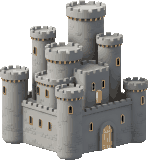
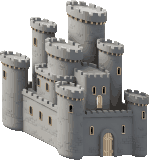
Tank the heroes, lay the castle on the map's angle, and thin the fences
A hero had sixty points in them, which is less than a single heisenbug carries,
so a camp with a fault on it put its own person down in a few seconds while
their retinue stood around them. There is no death here and nothing to lose:
the bar is not a stake, it is a read-out of how hard a camp is being hit, and it
has to survive a wave to say anything. Four hundred and twenty does.

The name boards were staggered over five bands twenty-two pixels apart, and a
board is about thirty tall -- so the stagger was moving the collision around
rather than preventing it, and a hero was pinned to band zero, which is also the
lowest band a soldier can take. Six bands at thirty-six clear a board outright,
and a hero now rides above every band their own retinue can reach.

The castle is laid over onto the map's angle: y' = y + k(x - mid), which leaves
every vertical vertical -- the towers stay upright -- and slopes the horizontals
down to the right. Not the tile's own 0.5, because the render has its own
perspective in it already and stacking the two makes the castle read as sliding
down a hill; 0.22 was picked by looking at it beside the Kenney structures.

There is a band of grass round its foot now, six tufts from the nature set,
trimmed and downscaled by `scripts/import-grass.py`. Laid as an ellipse rather
than a circle, because the ground plane is a 2:1 diamond and a ring of equal
radius in tile space is not a ring on the floor. Thinner across the front so the
[…]

Changed region(s): [[0.0, 0.0, 1.0, 0.8438], [0.0, 0.75, 1.0, 1.0], [0.5946, 0.75, 0.6486, 0.8438]]

diff --git a/app/src/game/pixi/scene.ts b/app/src/game/pixi/scene.ts
@@ -64,6 +64,12 @@ const KINGDOM = [
   "pine-light-a",
   "pine-light-b",
   "castle-8bit",
+  "grass-band-a",
+  "grass-band-b",
+  "grass-band-c",
+  "grass-band-d",
+  "grass-tuft-a",
+  "grass-tuft-b",
   "siege",
   "hero-banner",
 ];
@@ -401,18 +407,51 @@ export function buildWorld(app: Application, art: Loaded, kingdom: Kingdom): {
      * Thinner across the front than round the back, so the gate is not hidden
      * by a hedge, and deterministic like everything else here.
      */
+    /*
+     * A band of grass round the walls, and a few things growing out of it.
+     *
+     * Ten scattered shrubs left most of the wall meeting bare flagstone, and a
+     * building this size standing on a hard edge has nothing to say where the
+     * ground begins -- the eye reads the gap as air, which is most of why it
+     * looked like it was hovering over the Keep.
+     *
+     * The band is laid as an ellipse rather than a circle because the ground
+     * plane is a 2:1 diamond: a ring of equal radius in tile space is a circle
+     * on the floor and a circle is not what a ring round a building looks like
+     * from here. Wider across the back, thinner across the front, so the gate
+     * is not hidden by a hedge.
+     */
+    const RING = 34;
+    for (let step = 0; step < RING; step += 1) {
+      const angle = (step / RING) * Math.PI * 2;
+      /* South is towards the camera; the gate is there, so keep it clear. */
+      const front = Math.max(0, Math.sin(angle));
+      const out = 4.5 - front * 1.4;
+      /* Deterministic, like every other thing placed on this map. */
+      const jitter = ((step * 2654435761) % 1000) / 1000;
+      const bands = ["grass-band-a", "grass-band-b", "grass-band-c", "grass-band-d"];
+      const name = jitter > 0.82 && front < 0.4
+        ? (jitter > 0.92 ? "grass-tuft-b" : "grass-tuft-a")
+        : bands[step % bands.length];
+      const blade = kingdom.get(name);
+      if (!blade) continue;
+      things.addChild(
+        standing(
+          blade,
+          keep.x + Math.cos(angle) * out,
+          keep.y - 1 + Math.sin(angle) * out * 0.5,
+          (0.3 + jitter * 0.14) * (name.startsWith("grass-tuft") ? 0.8 : 1),
+        ),
+      );
+    }
+
+    /* And the shrubs and the trees, standing out of the grass rather than on
+     * bare stone. Fewer than before, because the band is doing the work now. */
     const SKIRT = [
-      { at: -5.6, out: 2.6, sprite: "Environment_01", scale: 0.95 },
-      { at: -4.1, out: 3.3, sprite: "Environment_12", scale: 0.6 },
-      { at: -2.4, out: 3.6, sprite: "Environment_02", scale: 0.85 },
-      { at: -0.7, out: 3.7, sprite: "Environment_19", scale: 0.5 },
-      { at: 1.1, out: 3.6, sprite: "Environment_03", scale: 0.9 },
-      { at: 2.8, out: 3.3, sprite: "Environment_12", scale: 0.55 },
-      { at: 4.4, out: 2.7, sprite: "Environment_21", scale: 1 },
-      { at: 5.7, out: 1.9, sprite: "Environment_19", scale: 0.6 },
-      /* The two that stand in front, low enough to see the gate over. */
-      { at: -2.2, out: -2.4, sprite: "Environment_19", scale: 0.5 },
-      { at: 2.3, out: -2.5, sprite: "Environment_12", scale: 0.55 },
+      { at: -5.4, out: 2.9, sprite: "Environment_01", scale: 0.95 },
+      { at: -2.6, out: 3.7, sprite: "Environment_02", scale: 0.85 },
+      { at: 1.4, out: 3.7, sprite: "Environment_03", scale: 0.9 },
+      { at: 4.6, out: 2.8, sprite: "Environment_21", scale: 1 },
     ];
     for (const plant of SKIRT) {
       things.addChild(

diff --git a/app/src/game/world/solids.ts b/app/src/game/world/solids.ts
@@ -68,6 +68,52 @@ export function solids(): Solid[] {
 }
 
 /**
+ * The solids, bucketed by where they are.
+ *
+ * `pushOut` runs for every actor on every tick, and walking the whole list each
+ * time is fifty distance checks per figure per tick -- which on a busy map was
+ * enough to take the simulation from comfortably real-time to timing out a test
+ * that runs a few thousand ticks. Nothing here moves, so the buckets are built
+ * once and read forever.
+ *
+ * A building is filed under every cell its circle touches, so a lookup is one
+ * cell and never a neighbourhood search.
+ */
+const CELL = 8;
+
+let grid: Map<string, Solid[]> | undefined;
+
+function key(cellX: number, cellY: number): string {
+  return `${cellX},${cellY}`;
+}
+
+function buckets(): Map<string, Solid[]> {
+  if (grid) return grid;
+
+  grid = new Map();
+  for (const solid of solids()) {
+    /*
+     * The reach in tile space. The comparison below squashes y by two, so a
+     * solid reaches half as far north as it does east and the cells it is filed
+     * under have to agree with that or a lookup misses it at the edge.
+     */
+    const fromX = Math.floor((solid.x - solid.r) / CELL);
+    const toX = Math.floor((solid.x + solid.r) / CELL);
+    const fromY = Math.floor((solid.y - solid.r / 2) / CELL);
+    const toY = Math.floor((solid.y + solid.r / 2) / CELL);
+    for (let cellY = fromY; cellY <= toY; cellY += 1) {
+      for (let cellX = fromX; cellX <= toX; cellX += 1) {
+        const at = key(cellX, cellY);
+        const already = grid.get(at);
+        if (already) already.push(solid);
+        else grid.set(at, [solid]);
+      }
+    }
+  }
+  return grid;
+}
+
+/**
  * Pushes a point out of anything it has ended up inside.
  *
  * Returns the corrected point. Runs after a step rather than before it, and
@@ -78,10 +124,14 @@ export function solids(): Solid[] {
  * footprint in tile space is the ellipse the eye expects on the ground.
  */
 export function pushOut(x: number, y: number): { x: number; y: number } {
+  const near = buckets().get(key(Math.floor(x / CELL), Math.floor(y / CELL)));
+  /* Open country, which is nearly all of it, costs one map lookup. */
+  if (!near) return { x, y };
+
   let px = x;
   let py = y;
 
-  for (const solid of solids()) {
+  for (const solid of near) {
     const dx = px - solid.x;
     /* Tile space is 2:1 on screen; compare in the shape the player sees. */
     const dy = (py - solid.y) * 2;

diff --git a/app/src/game/pixi/actors.ts b/app/src/game/pixi/actors.ts
@@ -69,13 +69,37 @@ function hashOf(id: string): number {
  * and three steps of thirteen pixels is not enough separation for a dozen
  * boards. Deterministic so a name does not hop when the list is re-ordered.
  */
+/**
+ * How far a soldier's name is lifted above its head, so two of them standing
+ * together do not write over each other.
+ *
+ * Six bands rather than five, and thirty-six apart rather than twenty-two. A
+ * plate is about thirty pixels tall, so at twenty-two the bands overlapped each
+ * other by a third before any two figures had even met -- the stagger was
+ * shuffling the collision around rather than preventing it. Thirty-six clears a
+ * plate outright, and six bands means a camp has to hold seven sessions before
+ * two can land on the same line.
+ *
+ * Deterministic from the id, so a session's name does not hop to a different
+ * height every time the roster is polled.
+ */
 function lift(id: string): number {
   let value = 0;
   for (let index = 0; index < id.length; index += 1) {
     value = (Math.imul(value, 31) + id.charCodeAt(index)) | 0;
   }
-  return (Math.abs(value) % 5) * 22;
+  return (Math.abs(value) % 6) * 36;
 }
+
+/**
+ * And a hero's name sits above every band a soldier can reach.
+ *
+ * A hero used to be pinned at zero, which is also the lowest band a soldier can
+ * draw at -- so the one board on a camp that has to be findable was the one
+ * most likely to have a session's name written across it. Their own retinue is
+ * what they collide with, so the fix is to put them over the top of it.
+ */
+const HERO_LIFT = 6 * 36 + 24;
 
 interface Piece {
   root: Container;
@@ -356,7 +380,7 @@ export class ActorLayer {
          * for them to collide with, and lifting them adds up to another eighty
          * pixels of empty sky between a person and their own name.
          */
-        const stagger = actor.role === "hero" ? 0 : lift(actor.id);
+        const stagger = actor.role === "hero" ? HERO_LIFT : lift(actor.id);
         piece.plate.root.position.set(x, y - piece.headroom - stagger);
         /*
          * The same depth as the figure it belongs to, so a name in front

diff --git a/app/src/game/world/marches.ts b/app/src/game/world/marches.ts
@@ -497,14 +497,39 @@ export function crossings(): Crossing[] {
       const after = path[Math.min(path.length - 1, endedAt)];
       const dx = after.x - before.x;
       const dy = after.y - before.y;
-      const length = Math.hypot(dx, dy) || 1;
+
+      /*
+       * Snapped to a tile axis, rather than laid along the road's own tangent.
+       *
+       * The road bows, so where it meets the water it is heading a few degrees
+       * off west -- and a deck built on that heading sits at an angle that
+       * matches neither the river nor the grid under it, which is exactly what
+       * a crooked bridge looks like. Everything else standing on this map lines
+       * up with the diamond; a bridge is a built thing and lines up hardest of
+       * all. So the crossing takes the nearer of the two tile axes and the deck
+       * runs straight along it.
+       */
+      const along =
+        Math.abs(dx) >= Math.abs(dy)
+          ? { dx: Math.sign(dx) || 1, dy: 0 }
+          : { dx: 0, dy: Math.sign(dy) || 1 };
+
+      /*
+       * And measured along that axis rather than along the road, so the deck is
+       * as long as the water is wide in the direction it actually crosses.
+       * Three tiles of dry bank at each end, so it lands on the road rather
+       * than stopping at the waterline.
+       */
+      const wet = along.dx !== 0
+        ? Math.abs(last.x - first.x)
+        : Math.abs(last.y - first.y);
+
       out.push({
         x: (first.x + last.x) / 2,
         y: (first.y + last.y) / 2,
-        dx: dx / length,
-        dy: dy / length,
-        /* The wet run plus a step of dry bank at each end to land on. */
-        span: Math.hypot(last.x - first.x, last.y - first.y) + 2,
+        dx: along.dx,
+        dy: along.dy,
+        span: wet + 6,
       });
       run = [];
     };

diff --git a/app/src/game/world/roadside.ts b/app/src/game/world/roadside.ts
@@ -124,7 +124,16 @@ export function roadsideProps(): Roadside[] {
         put("lantern", step.x + nx * verge * side, step.y + ny * verge * side);
       }
 
-      if (index > fenceUntil && noise(road, index, 1) < 0.1) {
+      /*
+       * Half as many runs, and not half as many sections in each.
+       *
+       * There was too much fence on this map, but thinning every run would have
+       * been the wrong half to take: a run with gaps in it is not a field
+       * boundary, it is litter, and the whole reason a fence reads as a fence is
+       * that it is continuous. So the *number of runs* drops and their length
+       * does not -- fewer veins, each one still joined end to end.
+       */
+      if (index > fenceUntil && noise(road, index, 1) < 0.05) {
         /* In steps, and a section now costs four of them, so a run of three
          * to seven sections is twelve to twenty-eight steps rather than five
          * to eleven -- which at the new spacing was one section and a gap. */

diff --git a/app/src/game/world/sim.ts b/app/src/game/world/sim.ts
@@ -309,8 +309,18 @@ export function setRoster(
       toY: camp.y,
       facing: 1,
       moving: false,
-      hp: 60,
-      maxHp: 60,
+      /*
+       * A hero is a tank, and deliberately so.
+       *
+       * At sixty they had less in them than a single heisenbug has, so a camp
+       * with a fault on it put its own person down inside a few seconds -- and
+       * a hero is not a unit, it is somebody on the team. There is no death
+       * here and nothing to lose, so the health bar is not a stake; it is a
+       * read-out of how hard a camp is being hit. It has to survive a wave to
+       * say anything at all, and at this it does.
+       */
+      hp: 420,
+      maxHp: 420,
       hurt: 0,
       action: "stand",
       actionUntil: 0,

diff --git a/app/scripts/import-grass.py b/app/scripts/import-grass.py
@@ -1,0 +1,58 @@
+#!/usr/bin/env python3
+"""Brings a few grass tufts into public/game/kingdom/.
+
+    python3 scripts/import-grass.py <downloads-dir>
+
+Six out of fourteen, and the choice is the point. The wide low ones read as a
+band of grass when they are set side by side, which is what is wanted round the
+foot of the castle; the tall ones with flowers on them are single clumps and are
+used sparingly among them so the band is not the same tuft repeated.
+
+They ship at two thousand pixels for print and are drawn here about sixty wide,
+so they are trimmed to their own bounds and resized hard -- the same reason the
+banners in import-kingdom.mjs are downscaled and the results committed.
+
+Pillow only, and not a dependency of the application: this regenerates committed
+assets and is run by hand when the source art changes.
+"""
+
+import sys
+from pathlib import Path
+
+from PIL import Image
+
+if len(sys.argv) < 2:
+    sys.exit("usage: python3 scripts/import-grass.py <downloads-dir>")
+
+source = Path(sys.argv[1]) / "Green Grass Illustrations Set"
+out = Path("public/game/kingdom")
+
+# The wide low bands first, then two taller clumps for the ones that stand out
+# of the band. Named by what they are rather than by the number they shipped
+# under, because "Green Grass Illustration 12" tells nobody anything.
+TAKE = [
+    ("Green Grass Illustration 11.png", "grass-band-a.png"),
+    ("Green Grass Illustration 12.png", "grass-band-b.png"),
+    ("Green Grass Illustration 13.png", "grass-band-c.png"),
+    ("Green Grass Illustration 14.png", "grass-band-d.png"),
+    ("Green Grass Illustration 4.png", "grass-tuft-a.png"),
+    ("Green Grass Illustration 6.png", "grass-tuft-b.png"),
+]
+
+# How wide a tuft is kept, in pixels. Drawn at about a tile, so anything past a
+# couple of hundred is bytes nobody sees.
+WIDE = 220
+
+out.mkdir(parents=True, exist_ok=True)
+for name, to in TAKE:
+    path = source / name
+    if not path.exists():
+        print(f"missing, skipped: {name}")
+        continue
+    tuft = Image.open(path).convert("RGBA")
+    tuft = tuft.crop(tuft.getbbox())
+    width, height = tuft.size
+    scale = WIDE / width
+    tuft = tuft.resize((WIDE, max(1, round(height * scale))), Image.LANCZOS)
+    tuft.save(out / to)
+    print(f"{to}  <-  {name}  ({tuft.width}x{tuft.height})")

diff --git a/app/scripts/pixelate-castle.py b/app/scripts/pixelate-castle.py
@@ -43,11 +43,48 @@ LONG = 160
 COLOURS = 28
 # Anything less opaque than this is cut away rather than feathered.
 ALPHA_CUT = 110
+# How far the render is laid over onto the map's angle.
+#
+# Not the tile's own 0.5. The pack's castle is a render with its own perspective
+# already in it, so applying the projection's full slope on top of that stacks
+# the two and the castle reads as sliding down a hill. This is the largest
+# amount that still reads as a building standing on isometric ground, and it was
+# picked by looking at it against the Kenney structures beside it rather than by
+# arithmetic.
+SHEAR = 0.22
 
 castle = Image.open(source).convert("RGBA")
 
 # Trimmed first: the render ships centred in a square with a lot of empty air,
 # and pixels spent on transparency are pixels the blocks do not get.
+castle = castle.crop(castle.getbbox())
+
+# Then laid on the map's own angle.
+#
+# The pack's castle is rendered square to the camera. Every other building here
+# is isometric, so the castle sat at a visibly different angle from the ground
+# it stood on and from its neighbours -- the one landmark on the map that did
+# not belong to the grid.
+#
+# This is the projection's own transform and nothing more: y' = y + k(x - mid),
+# which leaves every vertical line vertical -- the towers stay upright -- and
+# slopes every horizontal one down to the right at the tile's 2:1. So the
+# battlements, the gatehouse line and the base all run along the diamond
+# instead of across it.
+#
+# Done before the resize, at the render's full resolution, so the slope is
+# resampled once by something with pixels to spare rather than being stepped
+# into the 160px version afterwards.
+width, height = castle.size
+grown = Image.new("RGBA", (width, height + round(width * SHEAR)), (0, 0, 0, 0))
+grown.paste(castle, (0, 0))
+# PIL maps output back to input, so the shear is written with its sign flipped.
+castle = grown.transform(
+    grown.size,
+    Image.AFFINE,
+    (1, 0, 0, -SHEAR, 1, SHEAR * (width / 2)),
+    resample=Image.BICUBIC,
+)
 castle = castle.crop(castle.getbbox())
 
 width, height = castle.size
